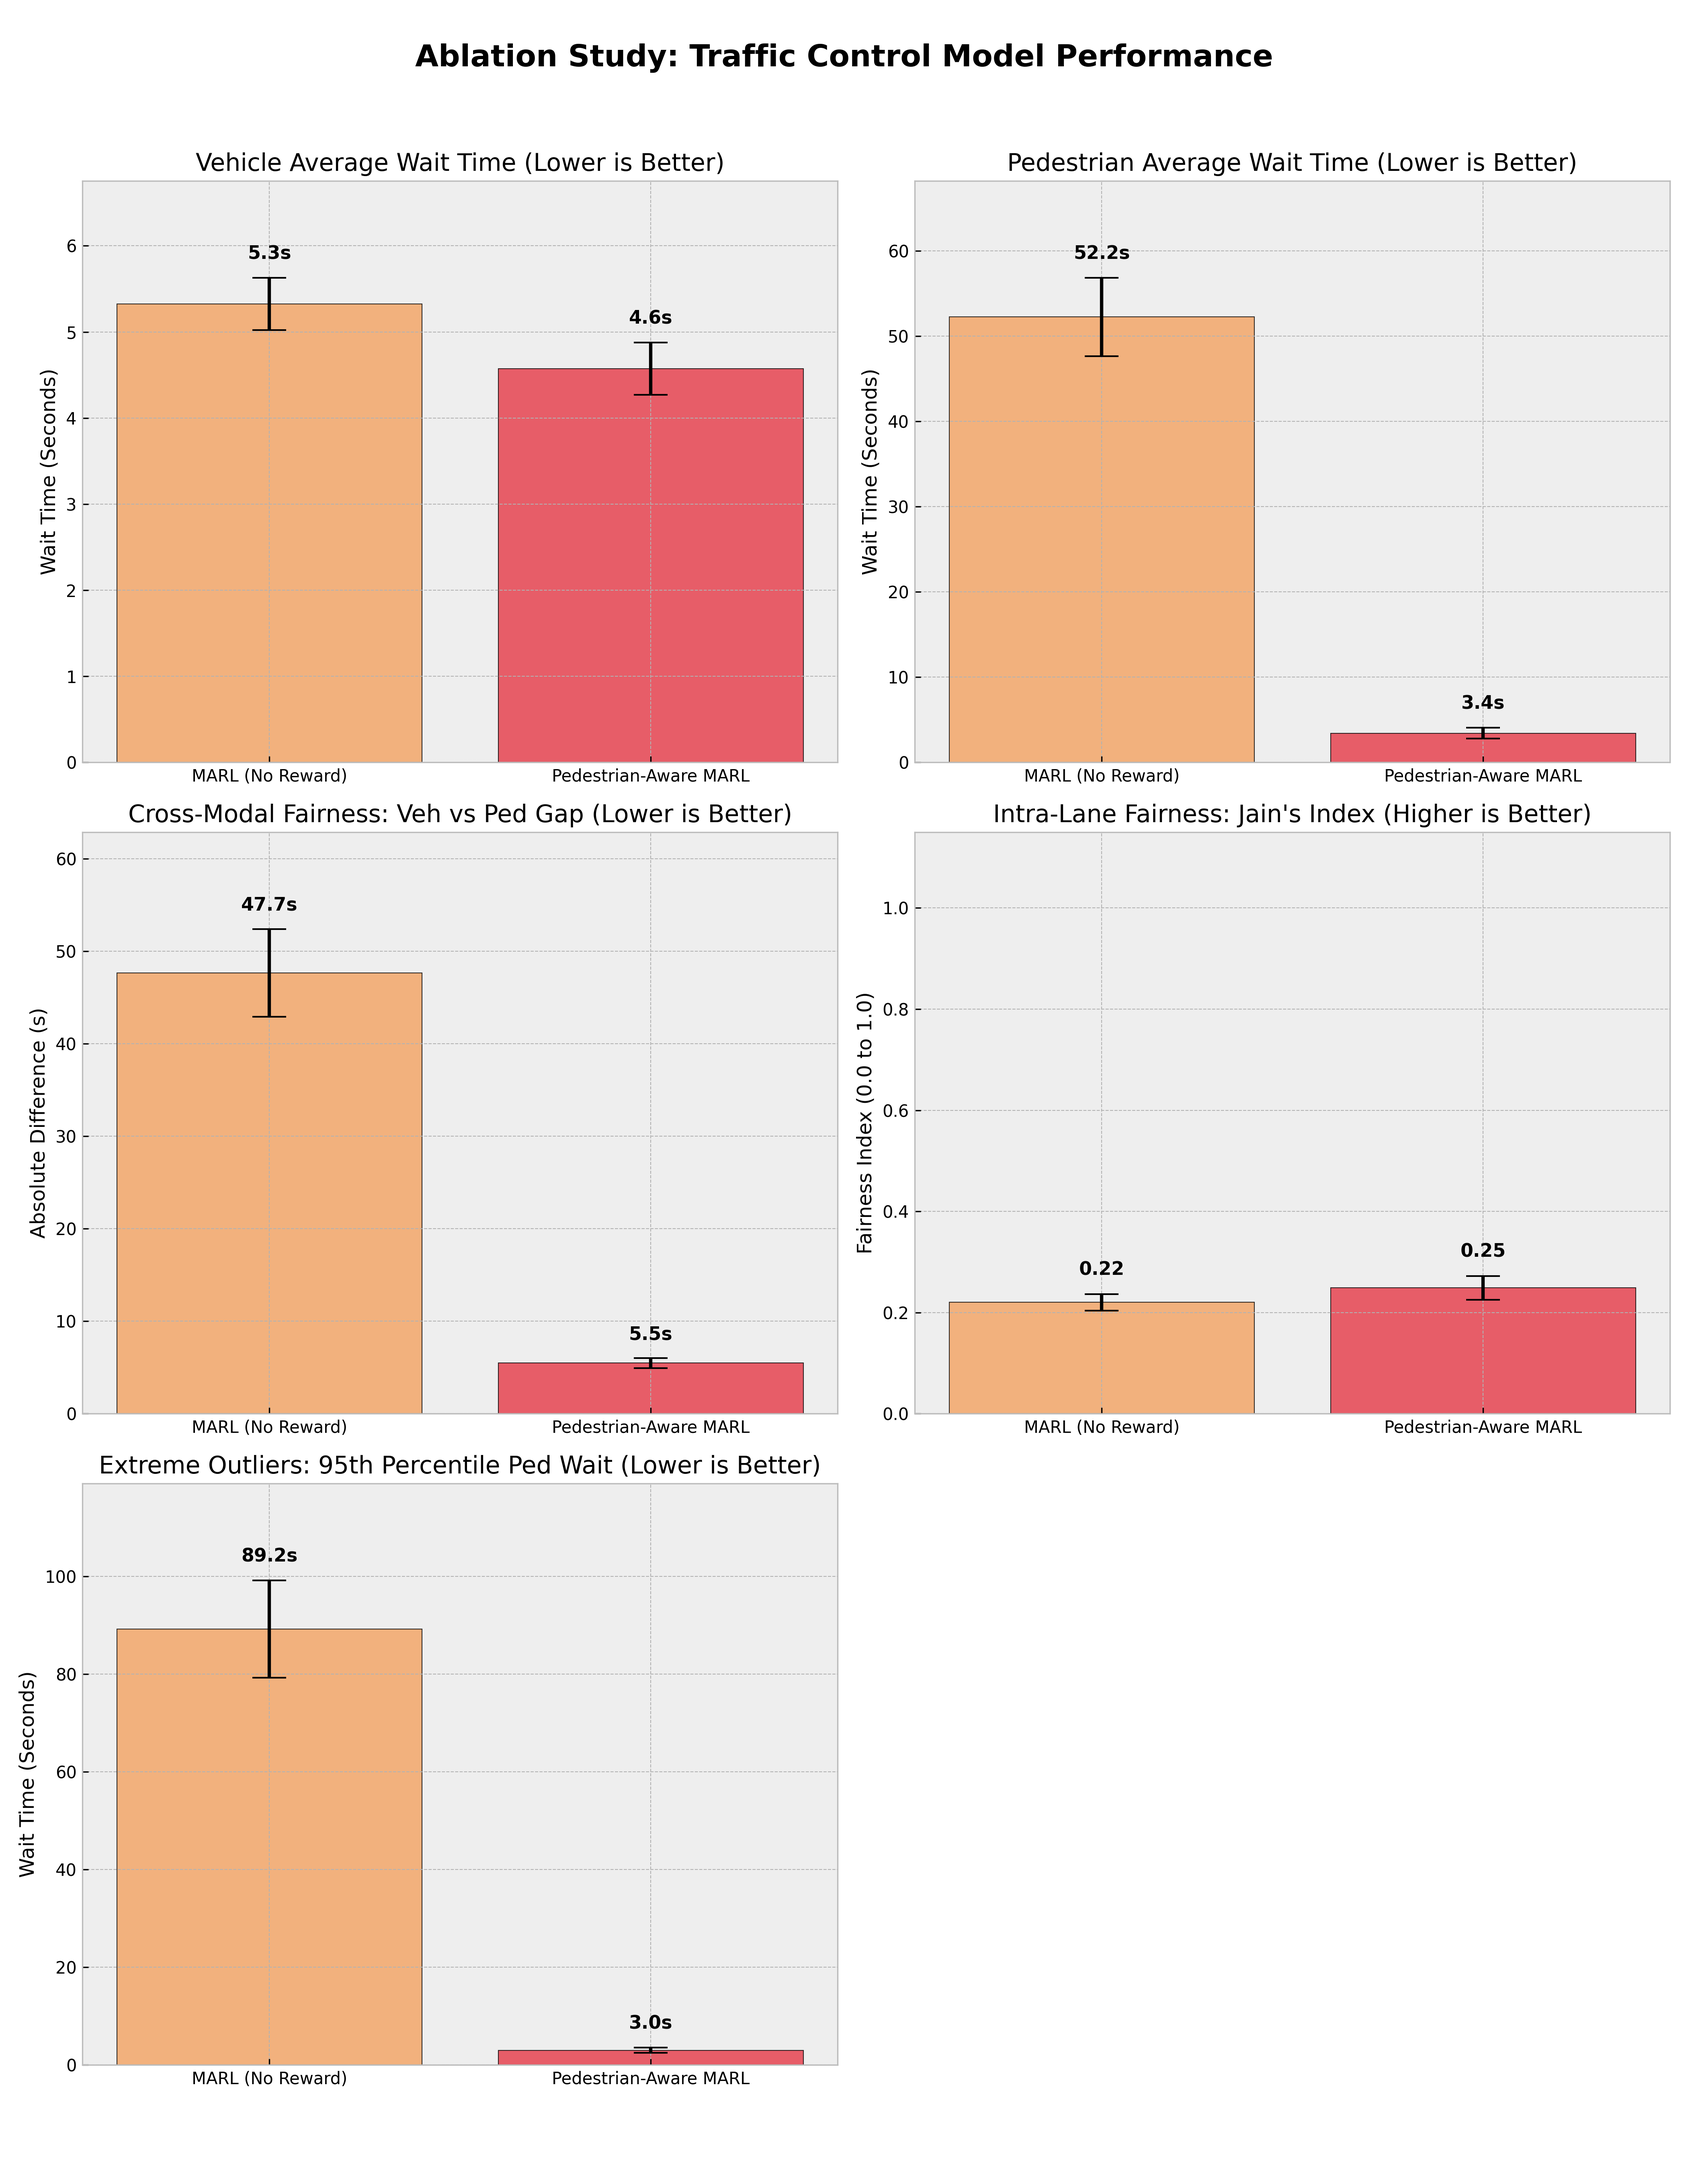
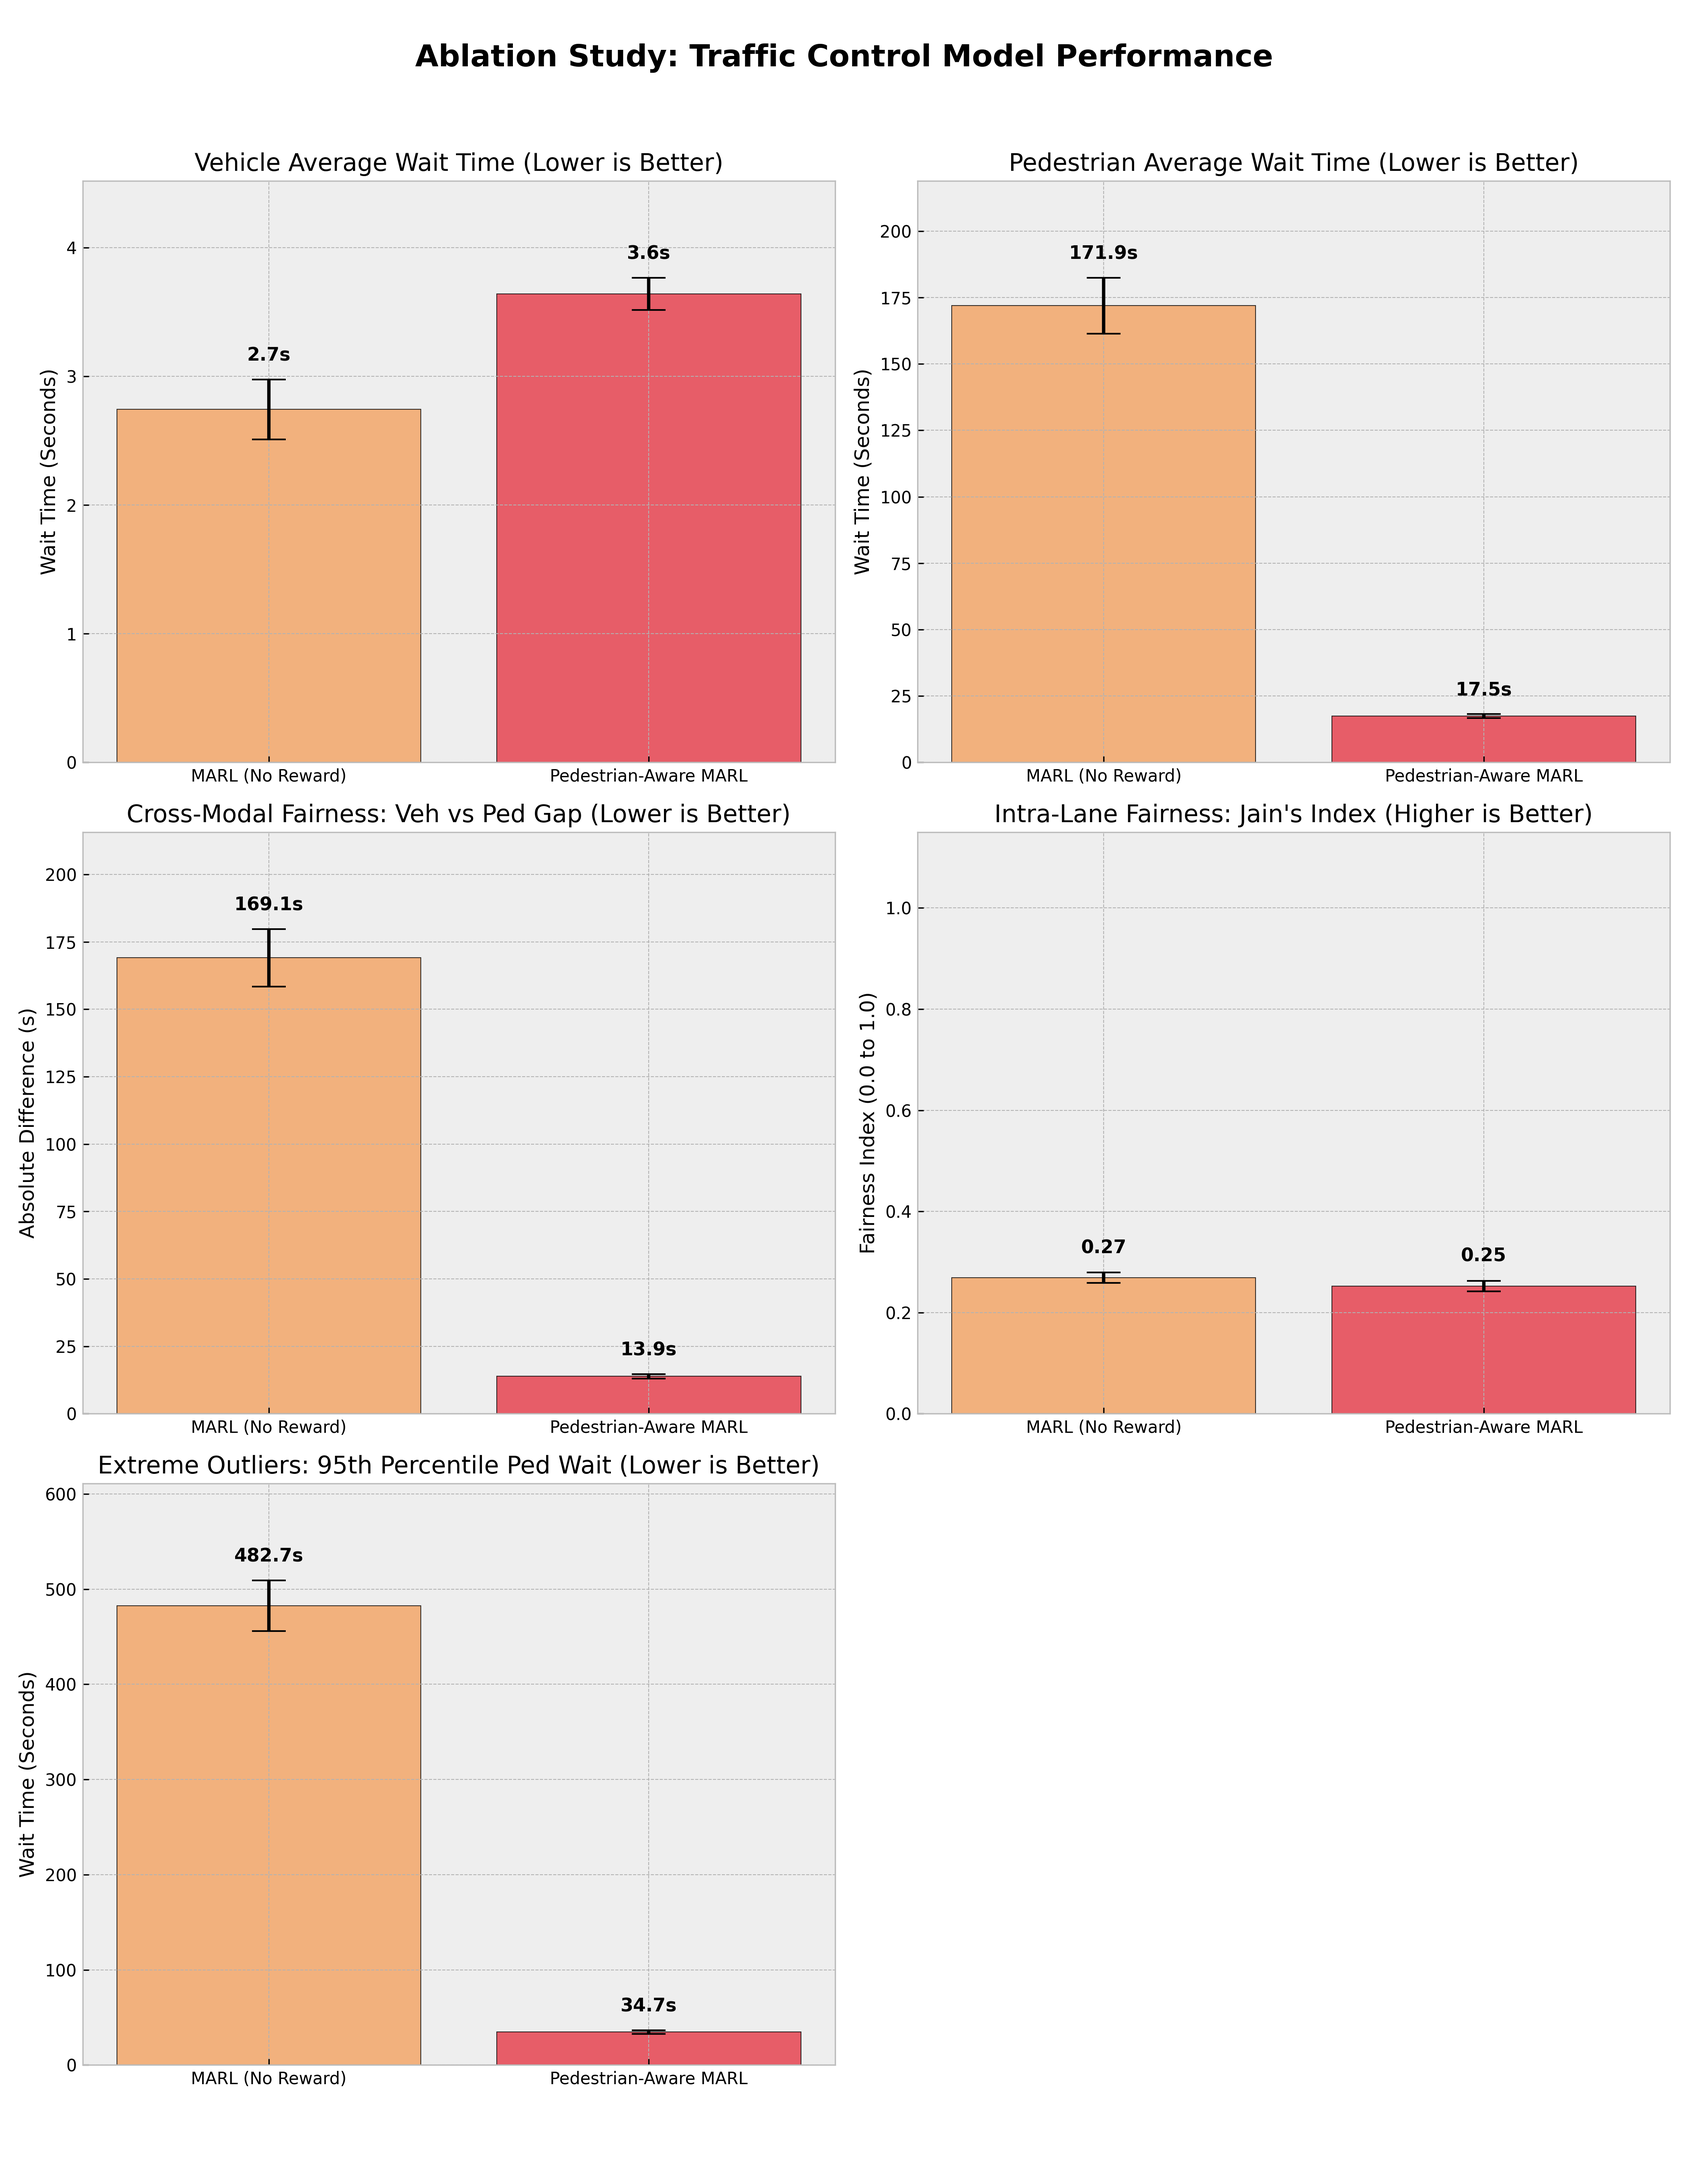
FINISHED EVALUATION; CREATED GRAPHS

diff --git a/plot_ablation_2.py b/plot_ablation_2.py
@@ -1,0 +1,144 @@
+import os
+import glob
+import re
+import pandas as pd
+import matplotlib.pyplot as plt
+
+base_dir = "evaluation-results/extreme-demand"
+
+# Updated the folders to only compare the two MARL models
+folders = {
+    "MARL (No Reward)": os.path.join(base_dir, "marl-no-rew"),
+    "Pedestrian-Aware MARL": os.path.join(base_dir, "marl")
+}
+
+def parse_summary_file(filepath):
+    """Extracts metrics from a single text file using regular expressions."""
+    with open(filepath, 'r', encoding='utf-8') as f:
+        content = f.read()
+        
+    # Regex patterns look for the text label, any amount of whitespace (\s*), 
+    # the number ([\d\.]+), and optionally the 's' unit
+    try:
+        return {
+            'veh_avg': float(re.search(r"True Avg Veh Wait Time:\s*([\d\.]+)s?", content).group(1)),
+            'ped_avg': float(re.search(r"True Avg Ped Wait Time:\s*([\d\.]+)s?", content).group(1)),
+            'cross_modal': float(re.search(r"FINAL CROSS-MODAL GAP:\s*([\d\.]+)s?", content).group(1)),
+            'intra_lane': float(re.search(r"TRUE INTRA-LANE FAIRNESS:\s*([\d\.]+)", content).group(1)),
+            'p95_ped': float(re.search(r"True 95th Percentile Ped:\s*([\d\.]+)s?", content).group(1))
+        }
+    except (AttributeError, ValueError) as e:
+        print(f"Error parsing metrics in file {filepath}. Make sure the formatting matches exactly.")
+        return None
+
+def load_and_summarize(folder_path):
+    """Reads TXT files, extracts metrics per seed, then averages across all seeds."""
+    all_files = glob.glob(os.path.join(folder_path, "*.txt"))
+    if not all_files:
+        print(f"Warning: No TXT files found in {folder_path}")
+        return None
+    
+    seed_records = []
+    for file in all_files:
+        metrics = parse_summary_file(file)
+        if metrics is not None:
+            seed_records.append(metrics)
+            
+    if not seed_records:
+        return None
+        
+    # Combine all seeds into one dataframe
+    concat_seeds = pd.DataFrame(seed_records)
+    
+    # Calculate the final mean and standard deviation across the seeds
+    summary = {
+        'veh_avg_mean': concat_seeds['veh_avg'].mean(),
+        'veh_avg_std': concat_seeds['veh_avg'].std(),
+        'ped_avg_mean': concat_seeds['ped_avg'].mean(),
+        'ped_avg_std': concat_seeds['ped_avg'].std(),
+        'cross_modal_mean': concat_seeds['cross_modal'].mean(),
+        'cross_modal_std': concat_seeds['cross_modal'].std(),
+        'intra_lane_mean': concat_seeds['intra_lane'].mean(),
+        'intra_lane_std': concat_seeds['intra_lane'].std(),
+        'p95_ped_mean': concat_seeds['p95_ped'].mean(),
+        'p95_ped_std': concat_seeds['p95_ped'].std(),
+    }
+    return summary
+
+print("Compiling summary statistics across all seeds...")
+
+data = {}
+for name, folder in folders.items():
+    stats = load_and_summarize(folder)
+    if stats is not None:
+        data[name] = stats
+
+plt.style.use('bmh') 
+
+# Updated colors for the two remaining models
+colors = {
+    'MARL (No Reward)': '#f4a261',       # A contrasting orange/sand color
+    'Pedestrian-Aware MARL': '#e63946'   # Keeping the original red for your main model
+}
+names = list(data.keys())
+
+# Adjusted figsize slightly since we only have 2 bars per graph now, 
+# making it slightly narrower so the bars don't look stretched.
+fig, axs = plt.subplots(3, 2, figsize=(14, 18))
+fig.suptitle('Ablation Study: Traffic Control Model Performance', fontsize=18, fontweight='bold')
+
+# Helper function to keep chart generation clean
+def plot_bar_chart(ax, metric_prefix, title, ylabel, is_index=False):
+    means = [data[name][f'{metric_prefix}_mean'] for name in names]
+    stds = [data[name][f'{metric_prefix}_std'] for name in names]
+    
+    bars = ax.bar(names, means, yerr=stds, capsize=10, 
+                  color=[colors[name] for name in names], alpha=0.8, edgecolor='black')
+    
+    ax.set_title(title)
+    ax.set_ylabel(ylabel)
+    
+    # Scale Y-axis to make room for text labels
+    max_height = max([m + s for m, s in zip(means, stds)]) if means else 0
+    if is_index:
+        ax.set_ylim(0, 1.15) # Fixed bounds for 0.0 to 1.0 metrics
+        max_height = 1.0
+    elif max_height > 0:
+        ax.set_ylim(0, max_height * 1.2)
+        
+    # Add data labels above the error bars
+    for i, bar in enumerate(bars):
+        yval = bar.get_height()
+        error_height = stds[i]
+        
+        if is_index:
+            text_label = f"{yval:.2f}"
+        else:
+            text_label = f"{yval:.1f}s"
+            
+        # Offset text slightly above the error bar cap
+        ax.text(bar.get_x() + bar.get_width()/2.0, yval + error_height + (max_height * 0.03), 
+                text_label, ha='center', va='bottom', fontweight='bold', color='black', fontsize=11)
+
+# --- Graph 1: Vehicle Average Wait Time ---
+plot_bar_chart(axs[0, 0], 'veh_avg', 'Vehicle Average Wait Time (Lower is Better)', 'Wait Time (Seconds)')
+
+# --- Graph 2: Pedestrian Average Wait Time ---
+plot_bar_chart(axs[0, 1], 'ped_avg', 'Pedestrian Average Wait Time (Lower is Better)', 'Wait Time (Seconds)')
+
+# --- Graph 3: Cross-Modal Fairness ---
+plot_bar_chart(axs[1, 0], 'cross_modal', 'Cross-Modal Fairness: Veh vs Ped Gap (Lower is Better)', 'Absolute Difference (s)')
+
+# --- Graph 4: Intra-Lane Fairness ---
+plot_bar_chart(axs[1, 1], 'intra_lane', "Intra-Lane Fairness: Jain's Index (Higher is Better)", 'Fairness Index (0.0 to 1.0)', is_index=True)
+
+# --- Graph 5: P95 Pedestrian Wait Time ---
+plot_bar_chart(axs[2, 0], 'p95_ped', 'Extreme Outliers: 95th Percentile Ped Wait (Lower is Better)', 'Wait Time (Seconds)')
+
+# --- Hide the empty 6th subplot ---
+fig.delaxes(axs[2, 1])
+
+plt.tight_layout(rect=[0, 0.03, 1, 0.96])
+plt.savefig('marl_ablation_results_summary.png', dpi=300)
+print("Success! Saved summary bar charts to 'marl_ablation_results_summary.png'.")
+plt.show()

diff --git a/plot_results_line.py b/plot_results_line.py
@@ -1,0 +1,116 @@
+import os
+import glob
+import pandas as pd
+import matplotlib.pyplot as plt
+
+base_dir = "evaluation-results/extreme-demand"
+folders = {
+    "Fixed-Time": os.path.join(base_dir, "baseline-fixed"),
+    "Rule-Based": os.path.join(base_dir, "baseline-rule-based"),
+    "Pedestrian-Aware MARL": os.path.join(base_dir, "marl")
+}
+
+def load_and_aggregate(folder_path):
+    """reads all CSVs in a folder, averages them across the 10 seeds."""
+    all_files = glob.glob(os.path.join(folder_path, "*.csv"))
+    if not all_files:
+        print(f"Warning: No CSV files found in {folder_path}")
+        return None
+    
+    df_list = []
+    for file in all_files:
+        df = pd.read_csv(file)
+        df_list.append(df)
+        
+    concat_df = pd.concat(df_list)
+    
+    grouped = concat_df.groupby('step').agg(['mean', 'std'])
+    
+    grouped.columns = ['_'.join(col) for col in grouped.columns.values]
+    grouped = grouped.reset_index()
+    
+    return grouped
+
+print("Compiling data across all seeds...")
+
+data = {}
+for name, folder in folders.items():
+    df = load_and_aggregate(folder)
+    if df is not None:
+        data[name] = df
+
+plt.style.use('bmh') 
+colors = {'Fixed-Time': '#2a9d8f', 'Rule-Based': '#457b9d', 'Pedestrian-Aware MARL': '#e63946'}
+
+# Increased figsize and changed to a 3x2 grid
+fig, axs = plt.subplots(3, 2, figsize=(16, 18))
+fig.suptitle('Traffic Control Model Performance (1-Hour Simulation Averaged Across 10 Seeds)', fontsize=18, fontweight='bold')
+
+# --- Graph 1: Vehicle Average Wait Time ---
+ax = axs[0, 0]
+for name, df in data.items():
+    ax.plot(df['step'], df['vehicle_average_waiting_time_mean'], label=name, color=colors[name], linewidth=2)
+
+ax.set_title('Vehicle Average Wait Time (Lower is Better)')
+ax.set_xlabel('Simulation Step (Seconds)')
+ax.set_ylabel('Wait Time (Seconds)')
+ax.legend()
+
+# --- Graph 2: Pedestrian Average Wait Time ---
+ax = axs[0, 1]
+for name, df in data.items():
+    ax.plot(df['step'], df['pedestrian_average_waiting_time_mean'], label=name, color=colors[name], linewidth=2)
+
+ax.set_title('Pedestrian Average Wait Time (Lower is Better)')
+ax.set_xlabel('Simulation Step (Seconds)')
+ax.set_ylabel('Wait Time (Seconds)')
+ax.legend()
+
+# --- Graph 3: Cross-Modal Fairness ---
+ax = axs[1, 0]
+for name, df in data.items():
+    ax.plot(df['step'], df['cross_modal_fairness_mean'], label=name, color=colors[name], linewidth=2)
+    ax.fill_between(df['step'], 
+                    df['cross_modal_fairness_mean'] - df['cross_modal_fairness_std'],
+                    df['cross_modal_fairness_mean'] + df['cross_modal_fairness_std'], 
+                    color=colors[name], alpha=0.1)
+
+ax.set_title('Cross-Modal Fairness: Veh vs Ped Wait Gap (Lower is Better)')
+ax.set_xlabel('Simulation Step (Seconds)')
+ax.set_ylabel('Absolute Difference in Wait Times (s)')
+ax.legend()
+
+# --- Graph 4: Intra-Lane Fairness (Jain's Index) ---
+ax = axs[1, 1]
+for name, df in data.items():
+    ax.plot(df['step'], df['intra_lane_fairness_mean'], label=name, color=colors[name], linewidth=2)
+
+ax.set_title("Intra-Lane Fairness: Jain's Index (Higher is Better)")
+ax.set_xlabel('Simulation Step (Seconds)')
+ax.set_ylabel('Fairness Index (0.0 to 1.0)')
+ax.set_ylim(0, 1.1)
+ax.legend()
+
+# --- Graph 5: P95 Pedestrian Wait Time (Bar Chart Summary) ---
+ax = axs[2, 0]
+names = list(data.keys())
+p95_means = [data[name]['p95_ped_wait_time_mean'].mean() for name in names]
+p95_stds = [data[name]['p95_ped_wait_time_mean'].std() for name in names] 
+
+bars = ax.bar(names, p95_means, yerr=p95_stds, capsize=10, 
+              color=[colors[name] for name in names], alpha=0.8, edgecolor='black')
+
+ax.set_title('Extreme Outliers: Average 95th Percentile Pedestrian Wait')
+ax.set_ylabel('Wait Time (Seconds)')
+
+for bar in bars:
+    yval = bar.get_height()
+    ax.text(bar.get_x() + bar.get_width()/2.0, yval + 2, f"{round(yval, 1)}s", ha='center', va='bottom', fontweight='bold')
+
+# --- Hide the empty 6th subplot ---
+fig.delaxes(axs[2, 1])
+
+plt.tight_layout(rect=[0, 0.03, 1, 0.96])
+plt.savefig('science_fair_results.png', dpi=300)
+print("Success! Saved high-resolution graph to 'science_fair_results.png'.")
+plt.show()

diff --git a/utils.py b/utils.py
@@ -21,7 +21,7 @@ class NemaPedestrianStandardizedObservation(ObservationFunction):
         self.ts = traffic_signal
         self._setup_done = False
         
-        # Vehicles: Lanes mapped to our 8 standard indices
+        # Vehicles: Lanes mapped to 8 standard indices
         # Indices: 0:NB_SR, 1:NB_L, 2:EB_SR, 3:EB_L, 4:SB_SR, 5:SB_L, 6:WB_SR, 7:WB_L
         self.movement_lanes = {i: [] for i in range(8)}
         
